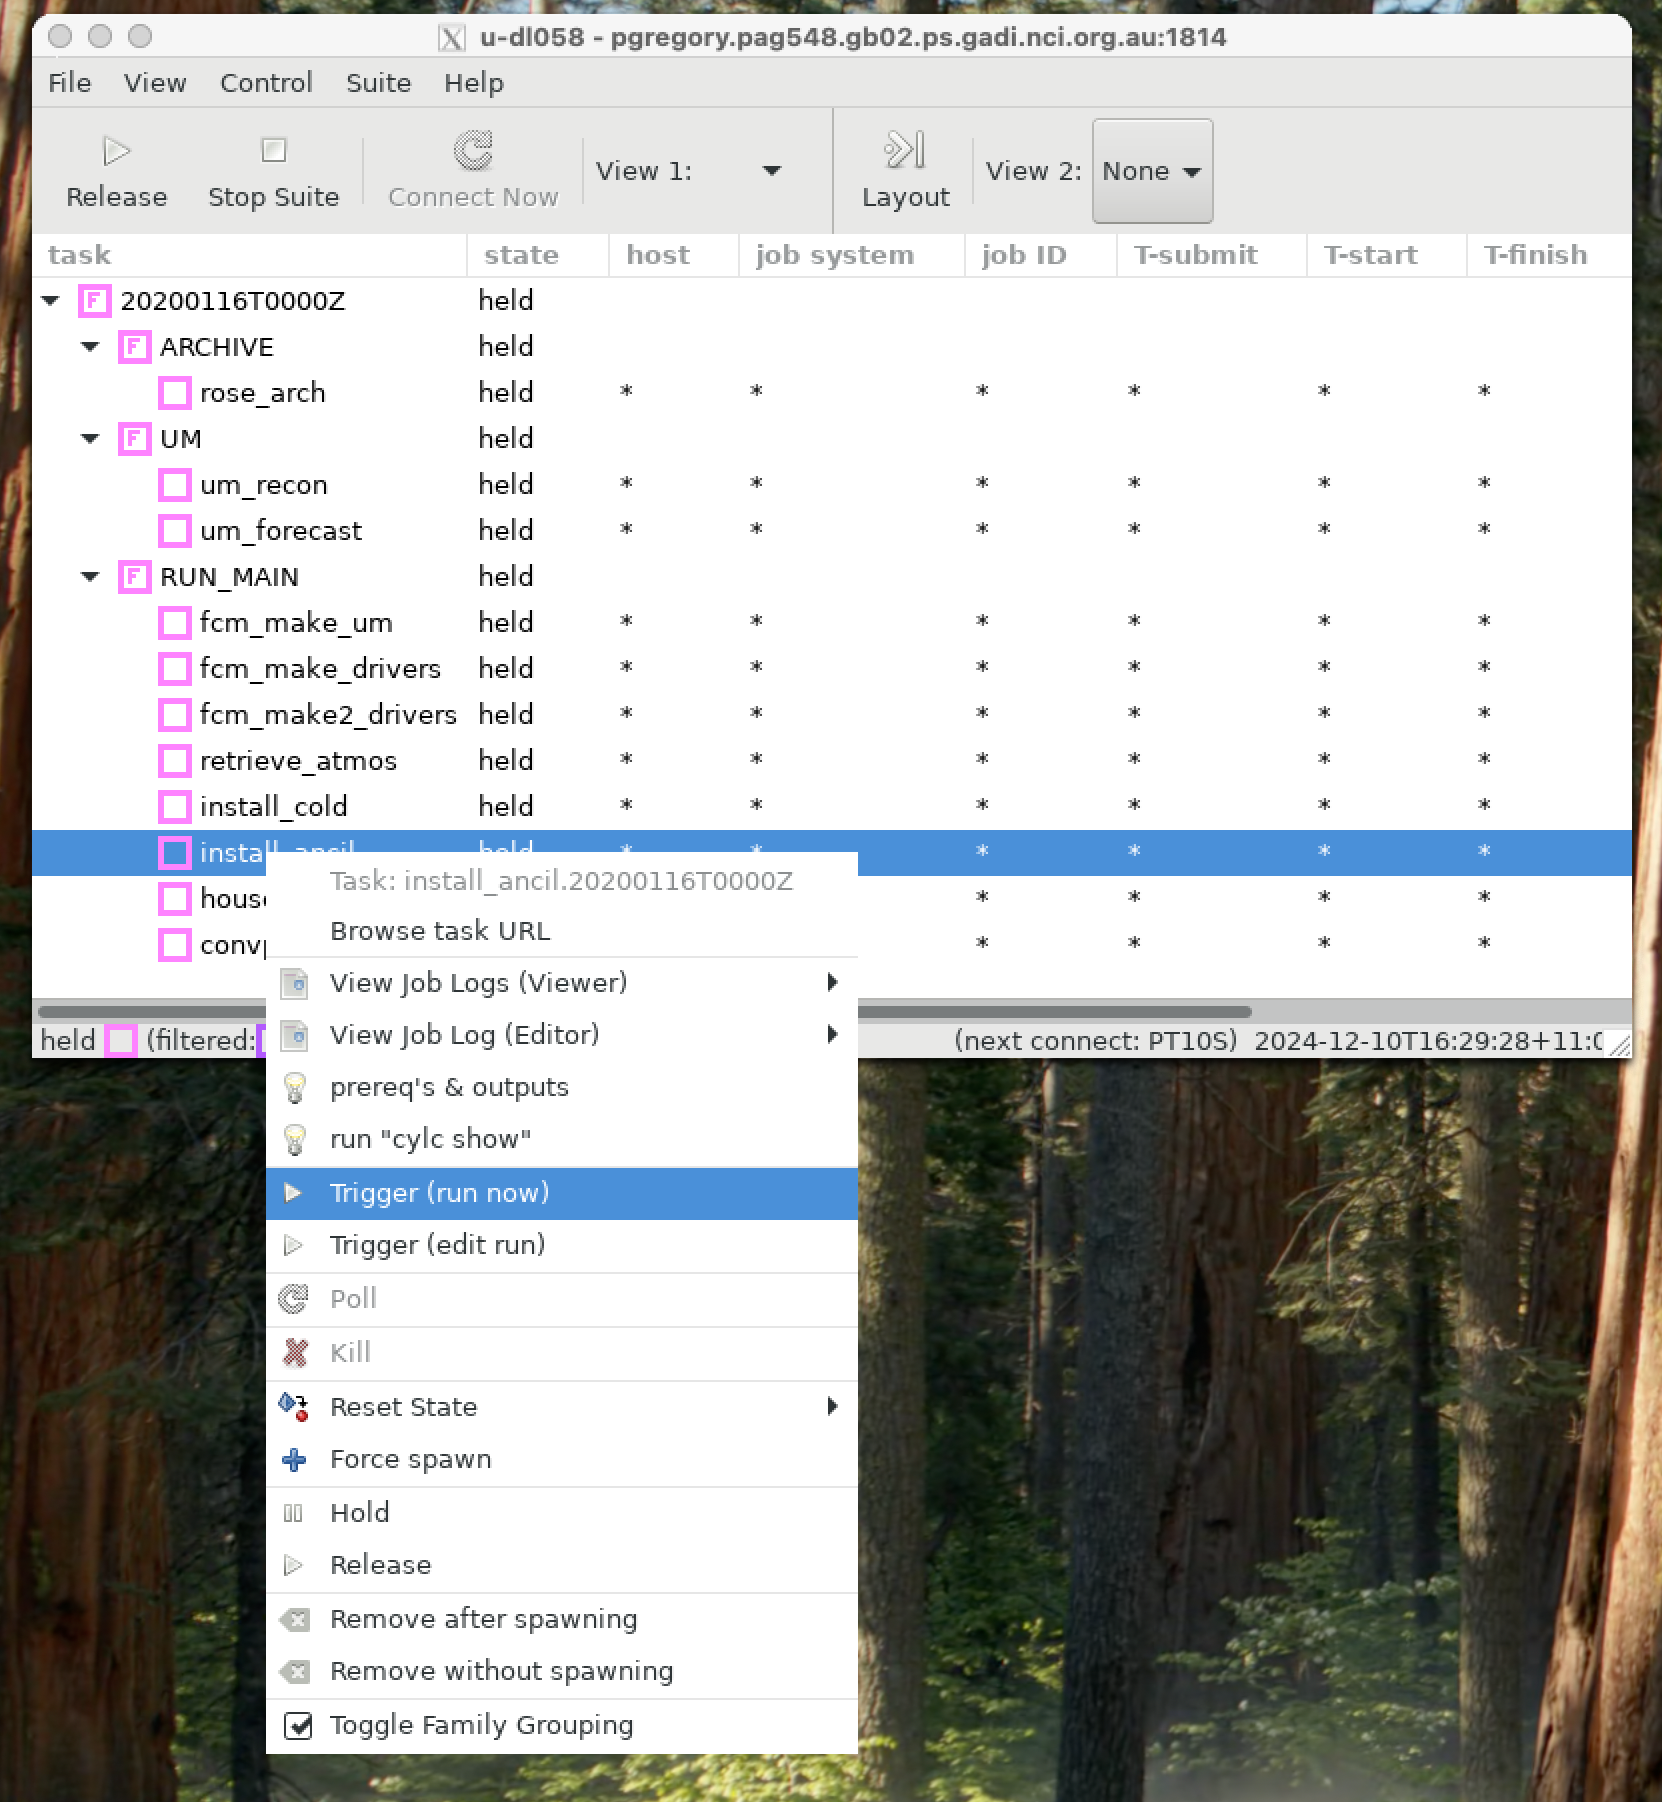
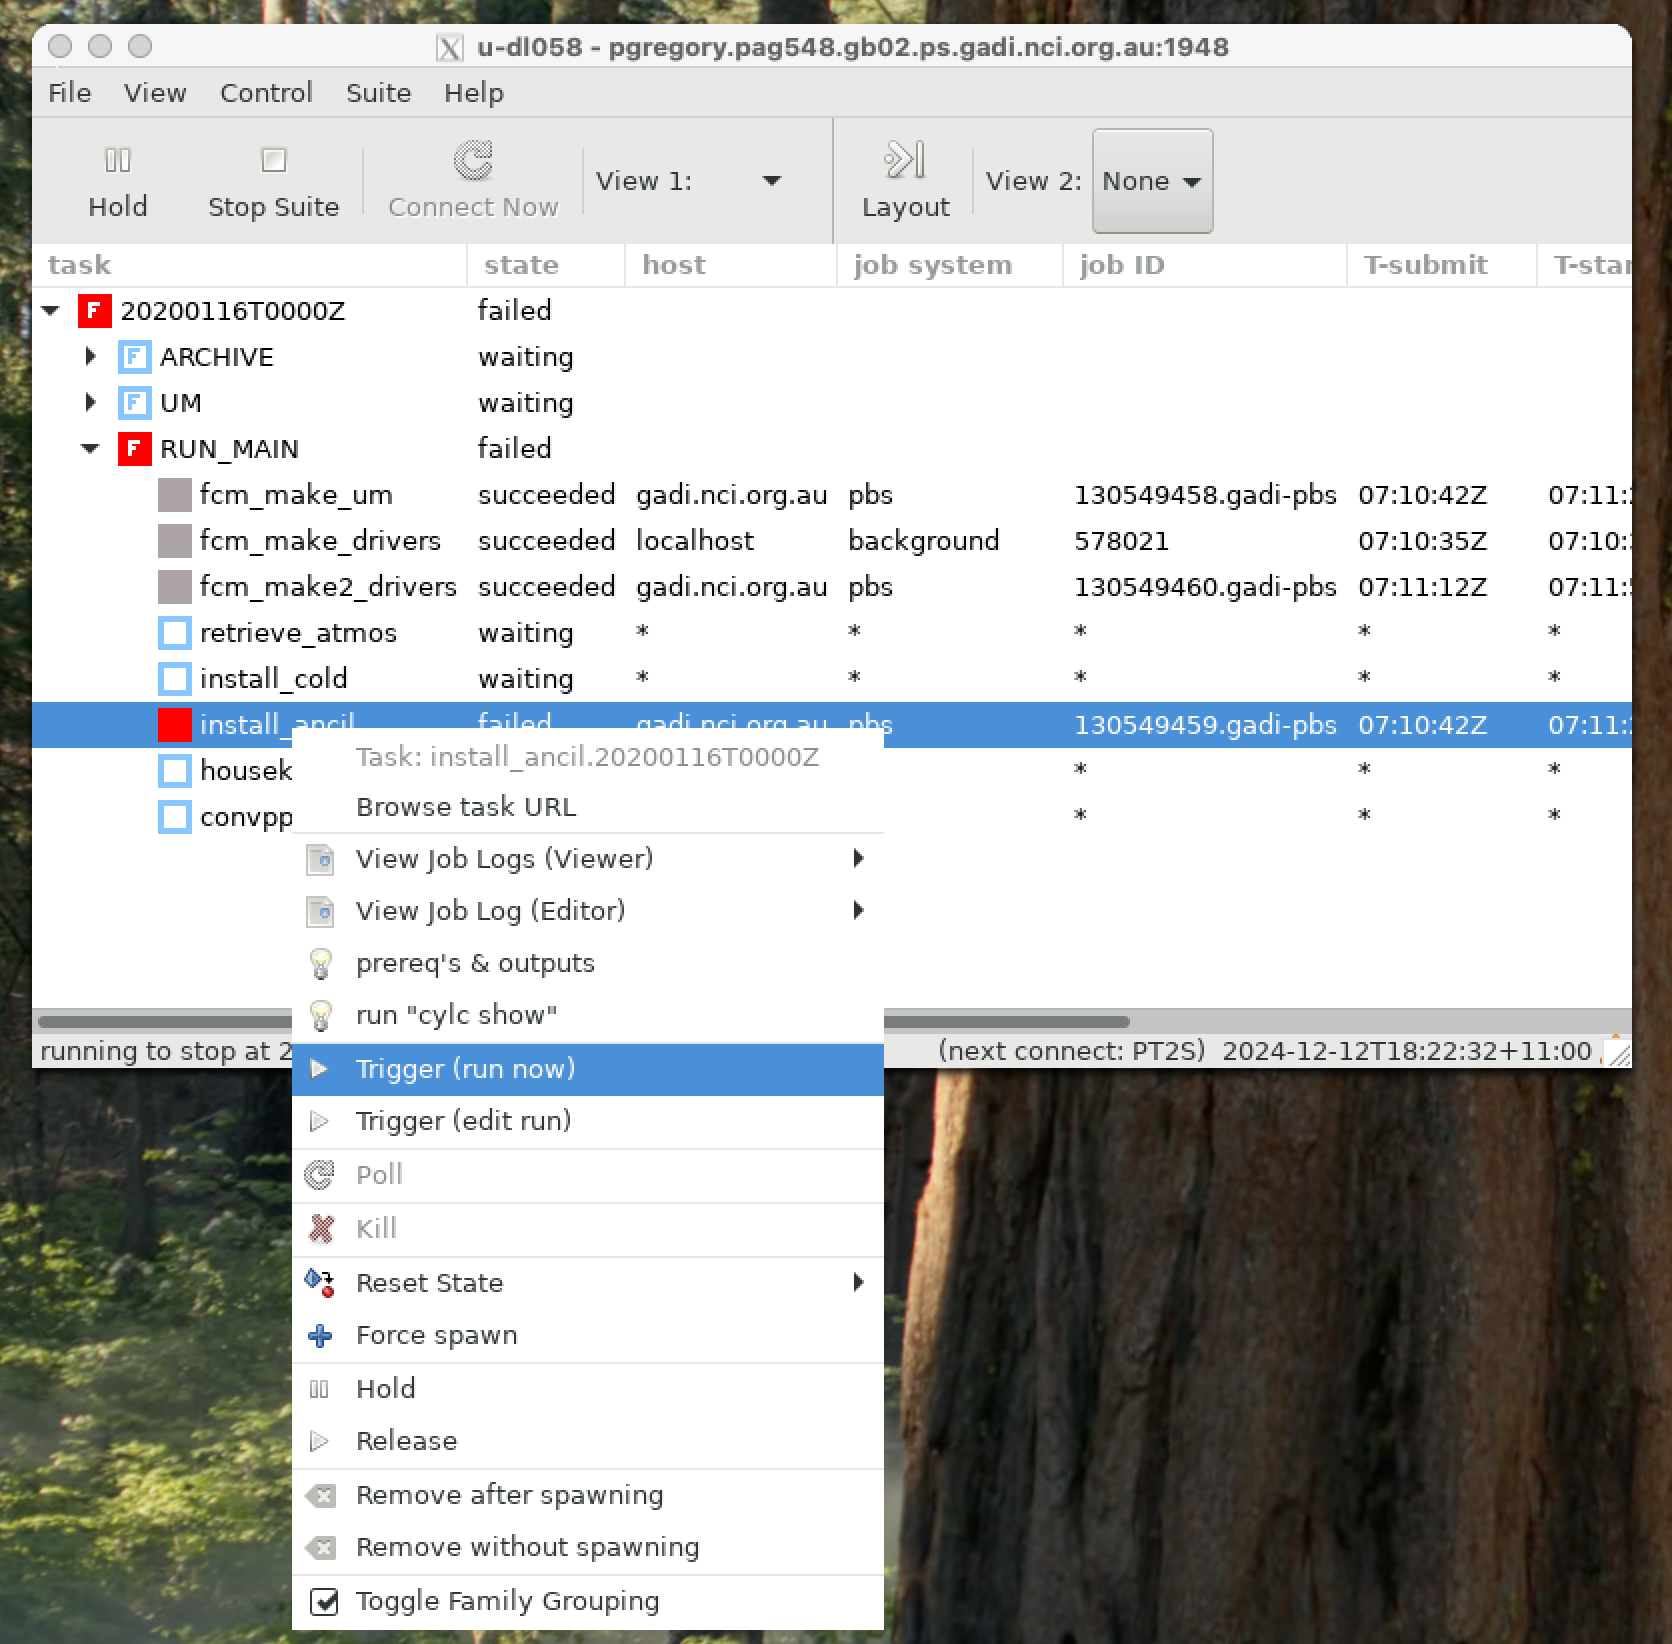
NEW FILES : Added a troubleshooting section

diff --git a/UM/trouble-shooting.md b/UM/trouble-shooting.md
@@ -1,0 +1,141 @@
+# Trouble Shooting
+
+Running the UM can be fraught. Tasks often fail. Let's break a task on purpose with our test suite `u-dl058` and learn how to diagnose problems and re-start suites.
+
+## Broken tasks
+
+Let's break the suite on purpose so we can practise dealing with problems. Let's break the `install_ancil` task.
+
+In `app/install_ancil/rose-app.conf` let's change the environment variable `LEVELS` from 70 to 73.
+i.e. change this section of the file from
+```
+[env]
+CALENDAR=gregorian
+LEVELS=70
+OCEAN=orca025_lakes
+```
+to this
+```
+[env]
+CALENDAR=gregorian
+LEVELS=73 
+OCEAN=orca025_lakes
+```
+Now, let's run the suite.
+```
+$ rose suite-run
+```
+That task will fail, while the `fcm_make` tasks will continue.
+
+![fail](images/fail.png)
+
+Let's look a the `job.out` file for this task.
+```
+Suite    : u-dl058
+Task Job : 20200116T0000Z/install_ancil/01 (try 1)
+User@Host: pag548@gadi-cpu-clx-1296.gadi.nci.org.au
+
+2024-12-12T07:11:26Z INFO - started
+[INFO] Configuration: /home/548/pag548/cylc-run/u-dl058/app/install_ancil/
+[INFO]     file: rose-app.conf
+[INFO]     optional key: (nci_gadi)
+[INFO] export CALENDAR=gregorian
+[INFO] export LEVELS=73
+[INFO] export OCEAN=orca025_lakes
+[INFO] export PATH=/g/data/hr22/apps/cylc7/rose_2019.01.7/bin:/home/548/pag548/cylc-run/u-dl058/bin:/home/548/pag548/cylc-run/u-dl058/bin:/home/548/pag548/cylc-run/u-dl058/share/fcm_make_um/build-recon/bin:/home/548/pag548/cylc-run/u-dl058/share/fcm_make_um/build-atmos/bin:/home/548/pag548/cylc-run/u-dl058/share/fcm_make_surf/build/bin:/home/548/pag548/cylc-run/u-dl058/share/fcm_make_drivers/build/bin:/home/548/pag548/cylc-run/u-dl058/share/fcm_make_cice_to_si3/build-cice_to_si3/bin:/g/data/hr22/apps/cylc7/cylc_7.9.7/../23.09/bin:/g/data/hr22/apps/cylc7/23.09/bin:/g/data/hr22/apps/mosrs-setup/1.0.1/bin:/g/data/hr22/apps/cylc7/cylc_7.9.7/bin:/opt/pbs/default/bin:/opt/nci/bin:/opt/bin:/opt/Modules/v4.3.0/bin:/bin:/usr/bin:/usr/local/sbin:/usr/sbin:/local/pbs/bin:/local/pbs/bin
+
+======================================================================================
+                  Resource Usage on 2024-12-12 18:11:33:
+   Job Id:             130549459.gadi-pbs
+   Project:            gb02
+   Exit Status:        1
+   Service Units:      0.00
+   NCPUs Requested:    1                      NCPUs Used: 1               
+                                           CPU Time Used: 00:00:03        
+   Memory Requested:   4.0GB                 Memory Used: 34.09MB         
+   Walltime requested: 00:30:00            Walltime Used: 00:00:05        
+   JobFS requested:    100.0MB                JobFS used: 0B              
+======================================================================================
+```
+Often, you won't find any useful messages in `job.out`. Let's look at the `job.err` file. This file is where `cylc` pipes all standard error (or stderr) message from the PBS scheduler.
+
+> **_TIP:_** If you using the `cylc` GUI to look at the output files, you can select `job.err` from a pull-down menu on the bottom right after you've looked at `job.out`.
+
+![stderr](images/stderr.png)
+
+The `job.err` file contains the following.
+```
+[FAIL] file:/home/548/pag548/cylc-run/u-dl058/share/data/etc/ancil_gl/qrclim.aeroclim=source=/g/data/access/projects/access/umdir/ancil/atmos/GC5/n320e/aerosol_clims/glomap/gregorian/v1/qrclim.aerosols73.nc: [Errno 2] No such file or directory: '/g/data/access/projects/access/umdir/ancil/atmos/GC5/n320e/aerosol_clims/glomap/gregorian/v1/qrclim.aerosols73.nc'
+2024-12-12T07:11:29Z CRITICAL - failed/EXIT
+```
+That is a useful error message. It tells us the task failed because it is trying to link to a file which doesn't exist. No ancillary files in the `UM_ANCIL_DIR` exist with 73 levels.
+
+Lets change levels back to 70 and save the file. This has updated the file `~/roses/u-dl058/app/install_ancil/rose-app.conf`.
+
+But how do we update the actual file in the `~/cylc-run/u-dl058` directory?
+
+We can use the `rose` `reload` functionality by typing from `~/roses/u-dl058` directory:
+```
+$ rose suite-run --reload
+```
+The last outputs of this command should say
+```
+[INFO] u-dl058: reload complete. "suite.rc" unchanged
+```
+This tells us the suite definition in `~/cylc-run/u-dl058` has been updated, although we didn't make any changes to `suite.rc`.
+
+You can manually check the suite file has been updated by executing the following:
+```
+$ ls -lt ~/cylc-run/u-dl058/app/install_ancil/
+```
+The modified time of the `rose-app.conf` file should now be updated.
+
+We can view this file from the command line using
+```
+$ more ~/cylc-run/u-dl058/app/install_ancil/rose-app.conf 
+[command]
+default=true
+
+[env]
+CALENDAR=gregorian
+LEVELS=70
+OCEAN=orca025_lakes
+```
+So our changes have correctly reloaded.
+
+We can use the `reload` command while the `cylc` suite is still running. Note your suite IS still running. It is just paused and is waiting for the next dependency to be fulfilled before the next task can be executed. If you type
+```
+$ cylc scan
+```
+You should see the suite `u-dl085` along with your username an persistent session name.
+
+Now with the correct value of `LEVEL`, we can execute the failed job by right-clicking on `install_ancil` and selecting `trigger now`.
+
+![stderr](images/trigger.png)
+
+The `install_ancil` task will now succeed, and the rest of the suite will now continue as normal.
+
+When running a suite, you'll find the above very useful when having to deal with failed tasks, without having to re-start the suite from scratch. The `cylc` workflow engine is clever enough to pick-up from where you left off. You won't have to restart the entire suite every time you hit a problem.
+
+## Common rose/cylc problems
+
+This will be a maintained list of problems encountered (and fixed) with running `rose/cylc` ACCESS tasks.
+
+### Jobs submitted but not running
+
+A common issue is that you start your `rose` suite, which submits various jobs, but they never run.
+
+i.e. the job state in the `cylc` GUI is 'submitted' and the job colour is bright green, but the job never begins running and never turns deep green.
+
+This is often caused by disk quota issues. If you have insufficient disk space, either in your home directory, your `/g/data/` or `/scratch` directories, your PBS job will not be allowed to run and will be held indefinitely.
+
+PBS jobs will also be held if there are insufficient project allocations (e.g. you've run out of 'kSU').
+
+See https://opus.nci.org.au/spaces/Help/pages/230490410/Why+are+my+jobs+not+running+...
+
+for more details.
+
+To help manage your disk quota, use some of the commands in this link:
+
+https://opus.nci.org.au/spaces/Help/pages/236880003/Basic+Navigation...
+
